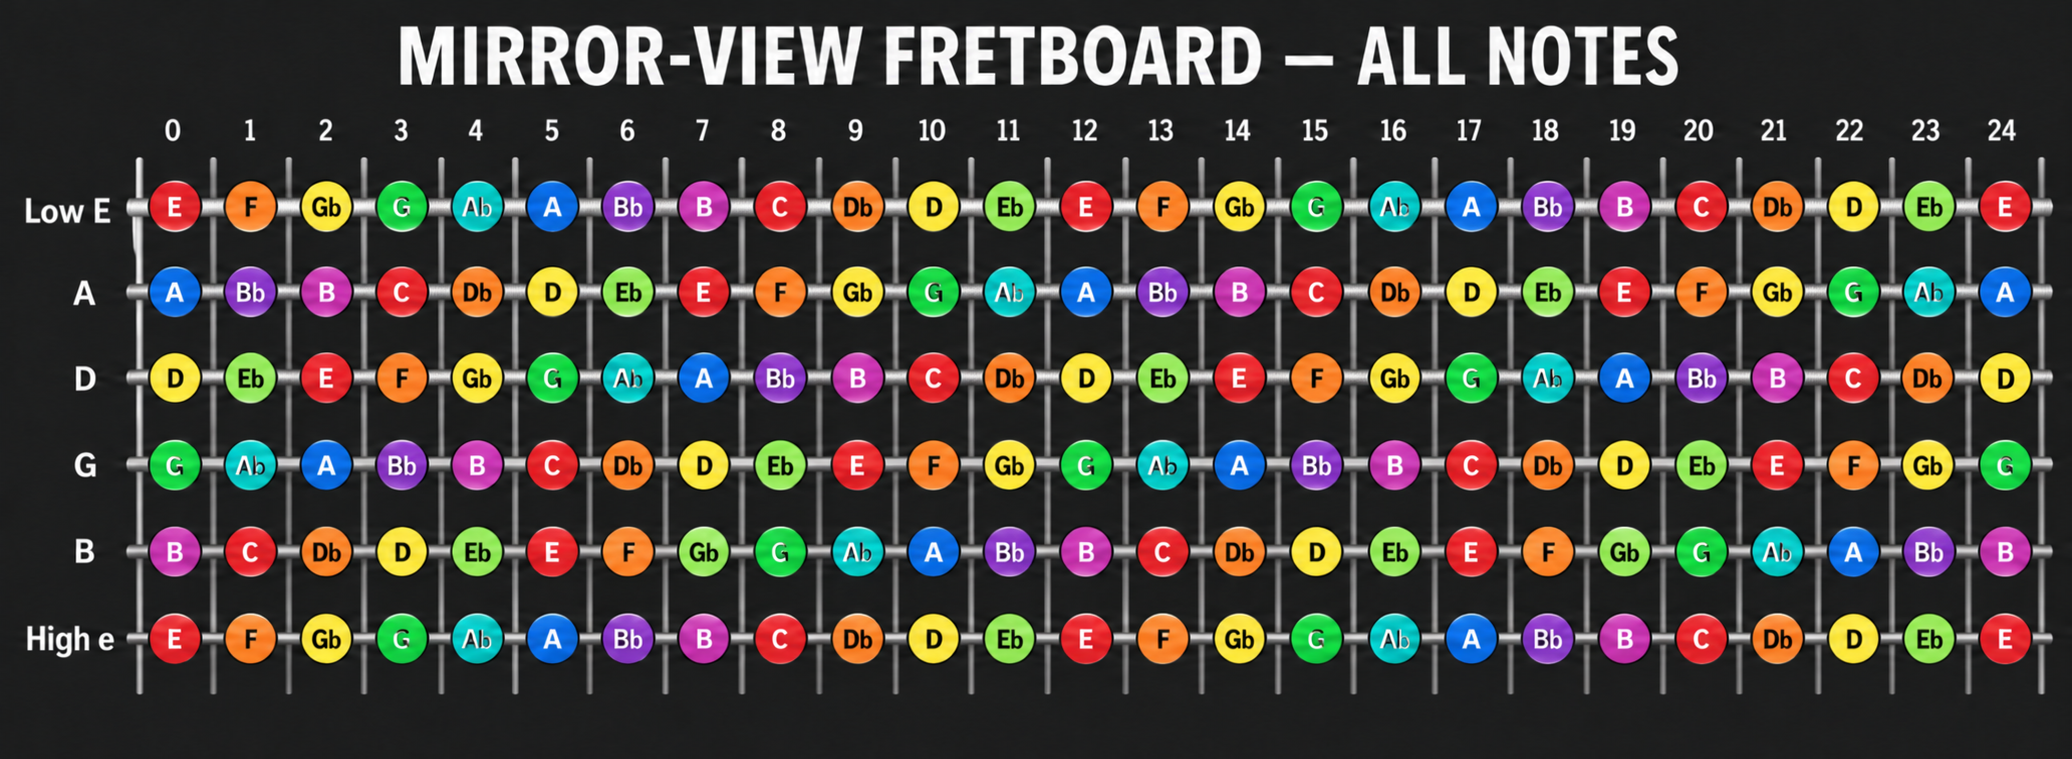
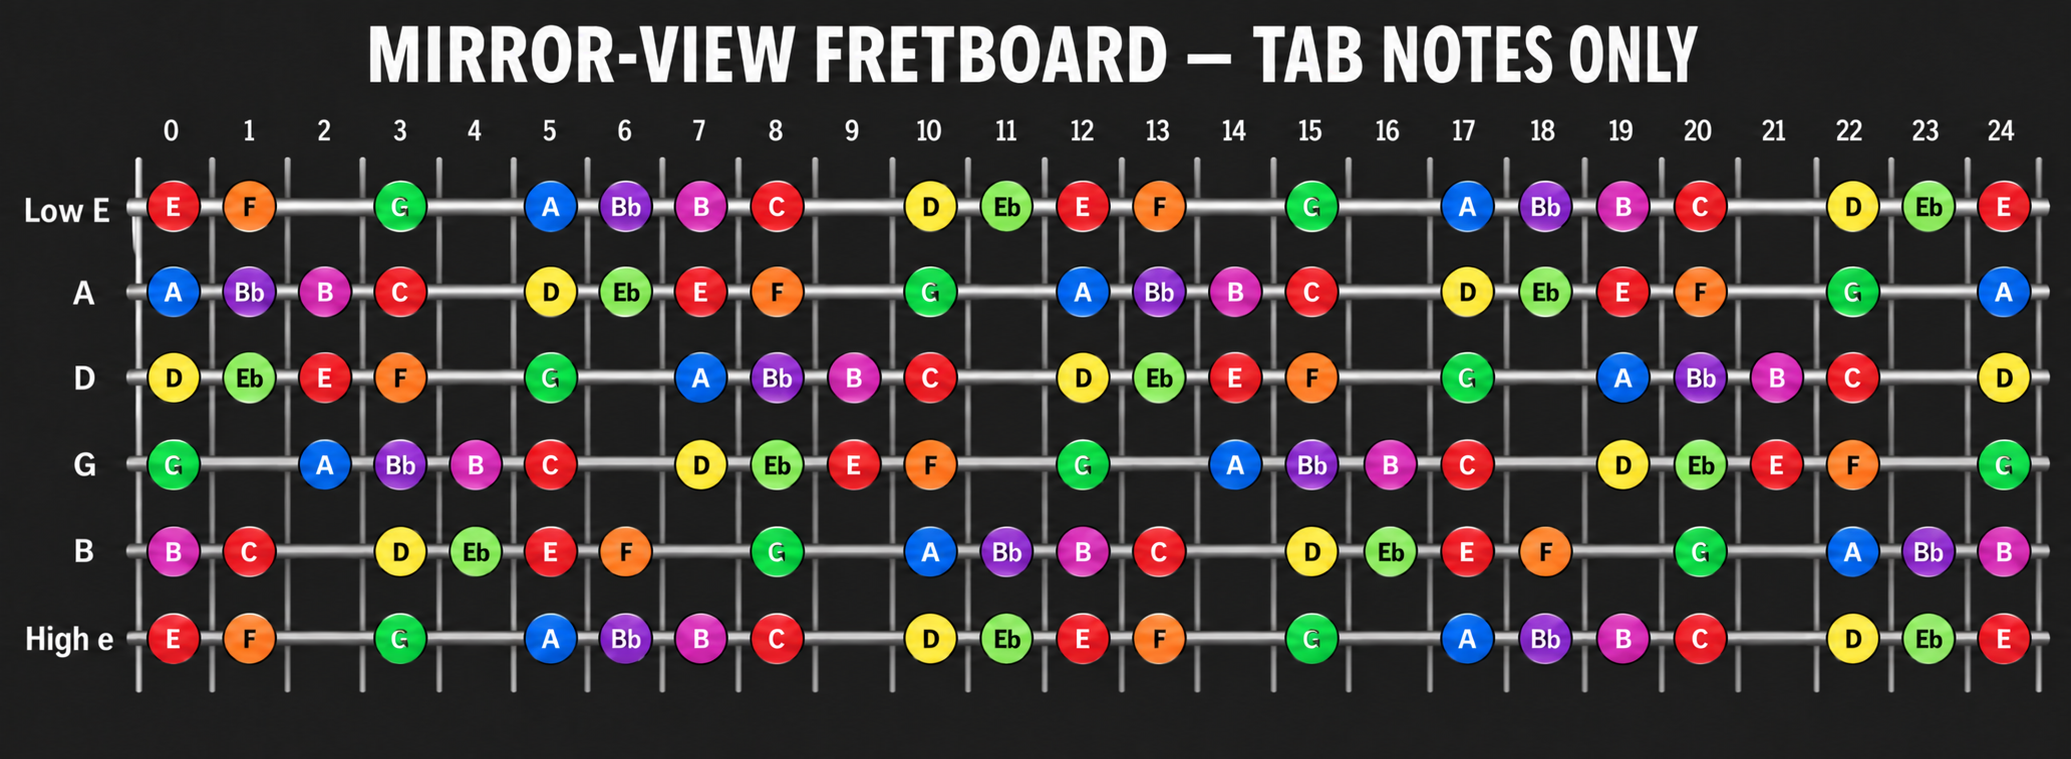
Show only tab notes on fretboard

diff --git a/README.md b/README.md
@@ -118,17 +118,8 @@ e|-----------------------------------------------------11~-----|
 
 `h` hammer-on · `p` pull-off · `b` bend · `r` release · `/` slide up · `\` slide down · `~` vibrato
 
-## Fretboard — every note from fret 0 to 24
+## Fretboard — tab notes only
 
-Standard tuning in the same right-handed mirror view: low E at the top and high e at the bottom.
+Standard tuning in the same right-handed mirror view: low E at the top and high e at the bottom. Only notes used in the tab are marked: `C D Eb E F G A Bb B`.
 
-![Mirror-view guitar fretboard showing every note from fret 0 to 24](mirror-view-fretboard-all-notes.png)
-
-| String / fret | 0 | 1 | 2 | 3 | 4 | 5 | 6 | 7 | 8 | 9 | 10 | 11 | 12 | 13 | 14 | 15 | 16 | 17 | 18 | 19 | 20 | 21 | 22 | 23 | 24 |
-| :--- | :---: | :---: | :---: | :---: | :---: | :---: | :---: | :---: | :---: | :---: | :---: | :---: | :---: | :---: | :---: | :---: | :---: | :---: | :---: | :---: | :---: | :---: | :---: | :---: | :---: |
-| Low E | E | F | Gb | G | Ab | A | Bb | B | C | Db | D | Eb | E | F | Gb | G | Ab | A | Bb | B | C | Db | D | Eb | E |
-| A | A | Bb | B | C | Db | D | Eb | E | F | Gb | G | Ab | A | Bb | B | C | Db | D | Eb | E | F | Gb | G | Ab | A |
-| D | D | Eb | E | F | Gb | G | Ab | A | Bb | B | C | Db | D | Eb | E | F | Gb | G | Ab | A | Bb | B | C | Db | D |
-| G | G | Ab | A | Bb | B | C | Db | D | Eb | E | F | Gb | G | Ab | A | Bb | B | C | Db | D | Eb | E | F | Gb | G |
-| B | B | C | Db | D | Eb | E | F | Gb | G | Ab | A | Bb | B | C | Db | D | Eb | E | F | Gb | G | Ab | A | Bb | B |
-| High e | E | F | Gb | G | Ab | A | Bb | B | C | Db | D | Eb | E | F | Gb | G | Ab | A | Bb | B | C | Db | D | Eb | E |
+![Mirror-view guitar fretboard showing only notes used in the tab](mirror-view-fretboard-all-notes.png)
